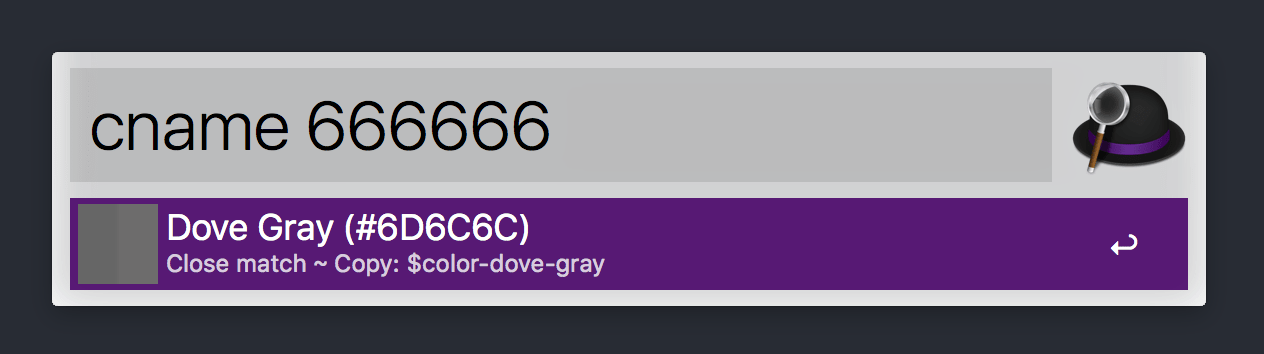
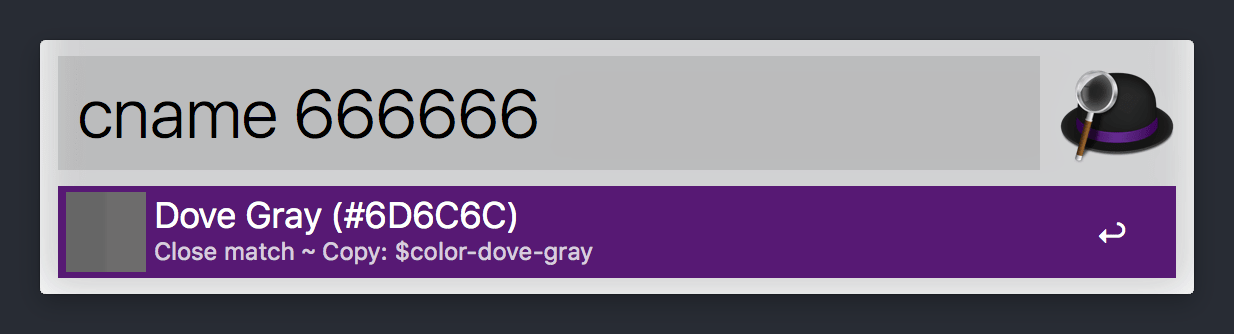
Add screenshot. Update readme.

Changed region(s): [[0.0308, 0.1198, 0.9854, 0.8982]]

diff --git a/README.md b/README.md
@@ -4,6 +4,8 @@ Based on [Name that Color](http://chir.ag/projects/name-that-color/). Built as a
 
 ![](https://raw.githubusercontent.com/mcavallo/alfred-color-name-ruby/master/assets/screenshot_001.png)
 
+![](https://raw.githubusercontent.com/mcavallo/alfred-color-name-ruby/master/assets/screenshot_002.png)
+
 
 ## Choose what to copy
 
@@ -20,7 +22,7 @@ None | SASS variable name | `$color-dove-gray`
 ## Requirements
 
 - Alfred 3
-- Modern version of Ruby (2.0+)
+- Modern version of Ruby 2.0+ (OS X 10.10 ships with 2.0)
 
 
 ## Credits
